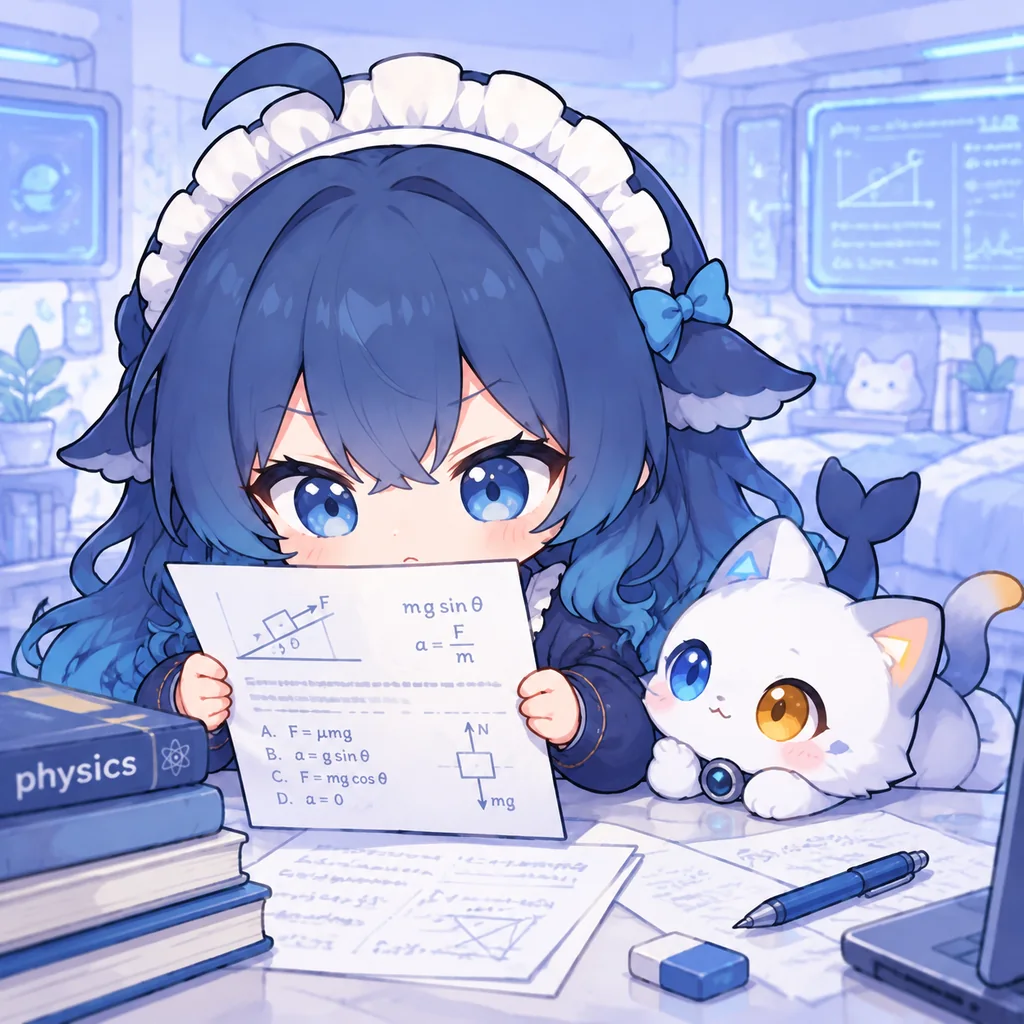
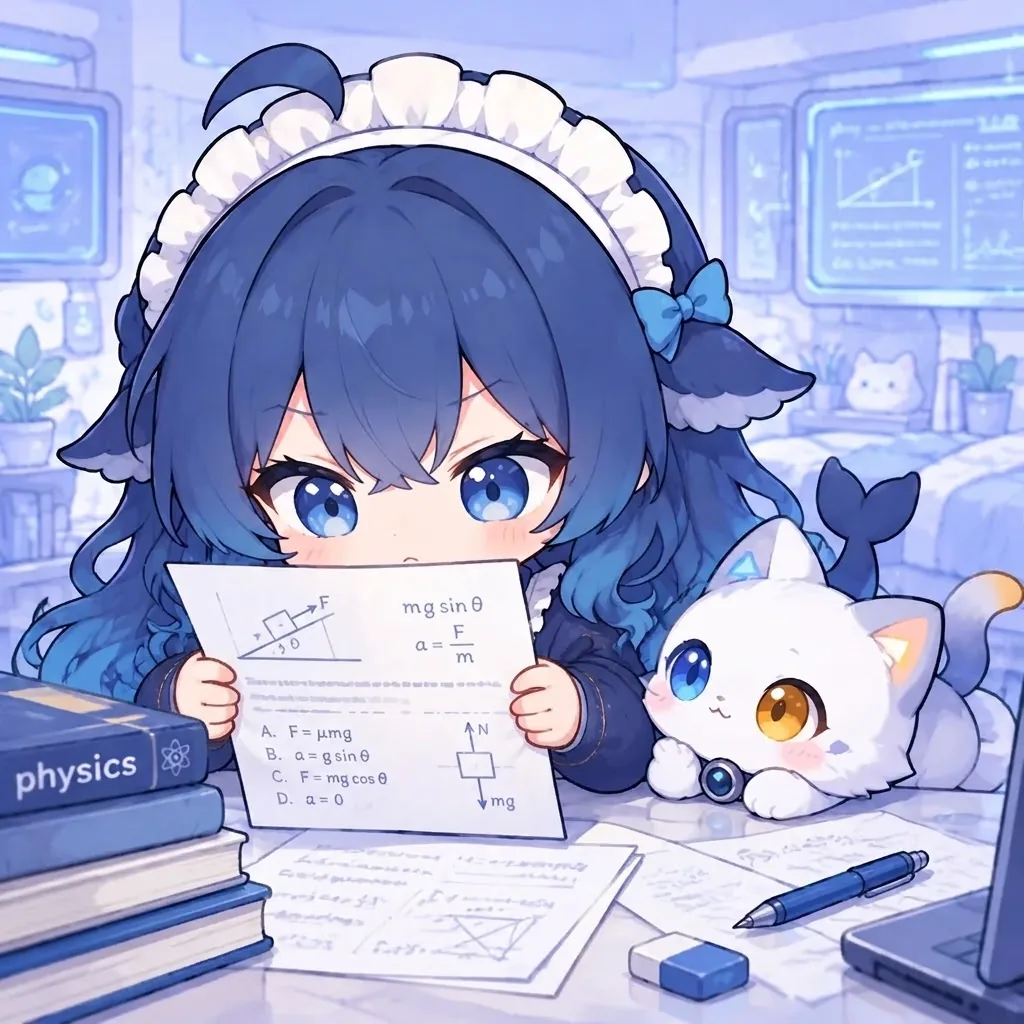
feat: 换上新重绘的吉祥物，对齐进度段与文案
图片
- 9 张新图（jpg 1024×1024）统一转成 webp（质量 82），合计 2031 KB → 1017 KB
- 新增 scripts/img2webp.py：把 assets/fish 下的 jpg 批量转 webp，顺便兼容 slove→solve 的笔误
- 旧图与 jpg 原图移到 开源日志/fish-source/（不入库、不打包）

文案与映射
- 标题按维护者给的新文案：认真查看你的需求 / 查阅资料 / 努力画画 / 检查画面 / 发现了问题 / 画好啦 / 思考 / deepsleep
- 说明文字只有 done / error / idle 保留，其余清空；空的时候把那一行收起来，不留空行
- think 归入「思考」段（原来四根条会全灰）

diff --git a/apps/web/index.html b/apps/web/index.html
@@ -551,17 +551,17 @@
 
   /* ---------------- 状态（吉祥物 + 文案） ---------------- */
   const FISH = {
-    idle:   { img: 'idle',   title: '小肥鱼正在deepsleep...', desc: '写一句话，把它叫醒' },
-    read:   { img: 'read',   title: '小肥鱼正在认真读题...', desc: '正在读你给的内容、认图片里的条件' },
-    solve:  { img: 'solve',  title: '小肥鱼正在偷看答案...', desc: '受力、过程、该用哪条公式' },
-    draw:   { img: 'draw',   title: '小肥鱼正在努力画画...', desc: '正在一帧一帧地画' },
-    check:  { img: 'check',  title: '小肥鱼正在检查画面...', desc: '快进跑一遍：穿模、压字、飞出去' },
-    repair: { img: 'repair', title: '小肥鱼发现了问题！',   desc: '正在重画' },
-    think:  { img: 'think',  title: '小肥鱼正在思考...',     desc: '它在琢磨，别急' },
-    done:   { img: 'done',   title: '小肥鱼画好啦！',       desc: '点右上角「动画」去看看' },
-    error:  { img: 'error',  title: '小肥鱼遇到了点问题...', desc: '原因写在下面；也可以打回让它再试' },
+    idle:   { img: 'idle',   title: '小肥鱼正在deepsleep...',    desc: '写一句话，把它叫醒' },
+    read:   { img: 'read',   title: '小肥鱼正在认真查看你的需求...', desc: '' },
+    solve:  { img: 'solve',  title: '小肥鱼正在查阅资料...',      desc: '' },
+    draw:   { img: 'draw',   title: '小肥鱼正在努力画画...',      desc: '' },
+    check:  { img: 'check',  title: '小肥鱼正在检查画面...',      desc: '' },
+    repair: { img: 'repair', title: '小肥鱼发现了问题！',        desc: '' },
+    think:  { img: 'think',  title: '小肥鱼正在思考...',          desc: '' },
+    done:   { img: 'done',   title: '小肥鱼画好啦！',            desc: '点右上角「动画」去看看' },
+    error:  { img: 'error',  title: '小肥鱼遇到了点问题...',      desc: '原因写在下面；也可以打回让它再试' },
   };
-  const PHASE_OF = { read: 0, solve: 0, draw: 1, check: 2, repair: 2, done: 3 };
+  const PHASE_OF = { read: 0, solve: 0, think: 0, draw: 1, check: 2, repair: 2, done: 3 };
 
   let tick = null;
   let fishTimer = null;
@@ -578,7 +578,10 @@
     const f = FISH[key] ?? FISH.idle;
     $('mascot').src = `assets/fish/${f.img}.webp`;
     $('statusTitle').textContent = f.title;
-    $('statusDesc').textContent = desc ?? f.desc;
+    const sub = desc ?? f.desc;
+    // 没有说明文字时把那一行收起来，省得留个空行
+    $('statusDesc').textContent = sub;
+    $('statusDesc').style.display = sub ? '' : 'none';
     setPhase(PHASE_OF[key] ?? -1);
   }
 

diff --git a/scripts/img2webp.py b/scripts/img2webp.py
@@ -1,0 +1,27 @@
+"""把 apps/web/assets/fish 下的 .jpg 批量转成 .webp（同名，覆盖旧文件）。
+
+用法：python scripts/img2webp.py
+只做三件事：转格式、压体积、报告前后大小。尺寸原样保留。
+"""
+import glob
+import os
+from PIL import Image
+
+FOLDER = os.path.join("apps", "web", "assets", "fish")
+# 文件名笔误兼容
+RENAME = {"slove": "solve"}
+
+total_before = total_after = 0
+for p in sorted(glob.glob(os.path.join(FOLDER, "*.jpg"))):
+    stem = os.path.splitext(os.path.basename(p))[0]
+    stem = RENAME.get(stem, stem)
+    out = os.path.join(FOLDER, stem + ".webp")
+    im = Image.open(p).convert("RGB")
+    im.save(out, "WEBP", quality=82, method=6)
+    before = os.path.getsize(p)
+    after = os.path.getsize(out)
+    total_before += before
+    total_after += after
+    print(f"{stem:<8} {im.size[0]}x{im.size[1]}  {before//1024:>4} KB -> {after//1024:>3} KB")
+
+print(f"\n合计 {total_before//1024} KB -> {total_after//1024} KB")
